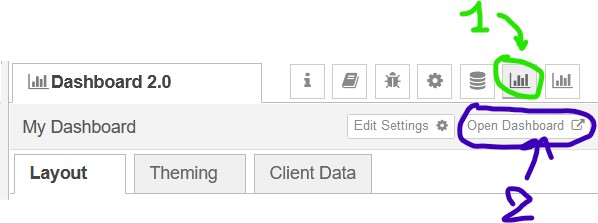
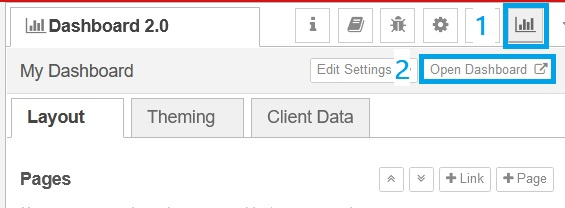
Improved instruction screenshots

Changed region(s): [[0.0, 0.0, 1.0, 1.0], [0.6619, 0.7788, 0.7522, 0.8077]]

diff --git a/README.md b/README.md
@@ -111,7 +111,7 @@ Don't forget to explore *all demos* we have prepared for you!
 - Setup API payment methods
 - Enter the NodeRED section
 - Select the instance type
-- Select the NodeRED stack (**Note:** this recipe is tested with NodeRED 3.1.9)
+- Select the NodeRED stack (**Note:** this recipe is tested with NodeRED 3.1.9 and 4.0.0)
 - Open your freshly created NodeRED editor in the cloud
 
 **Step 2: Verify Environment Variables**
